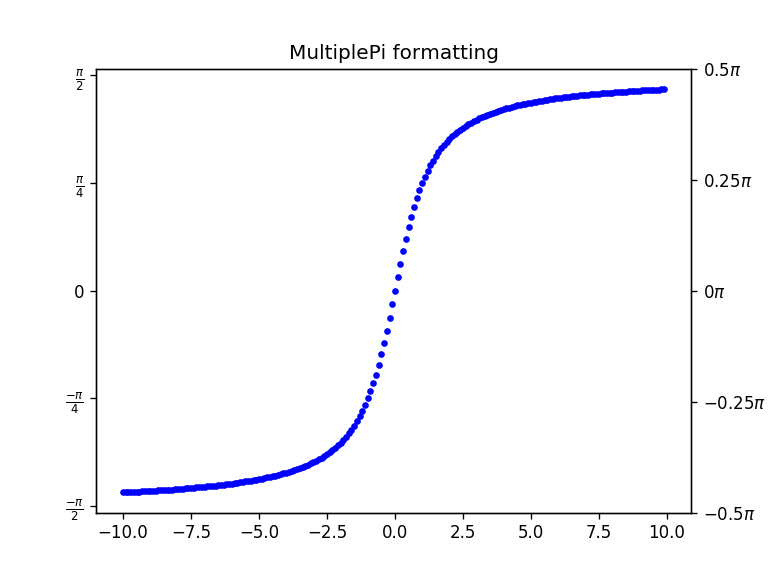
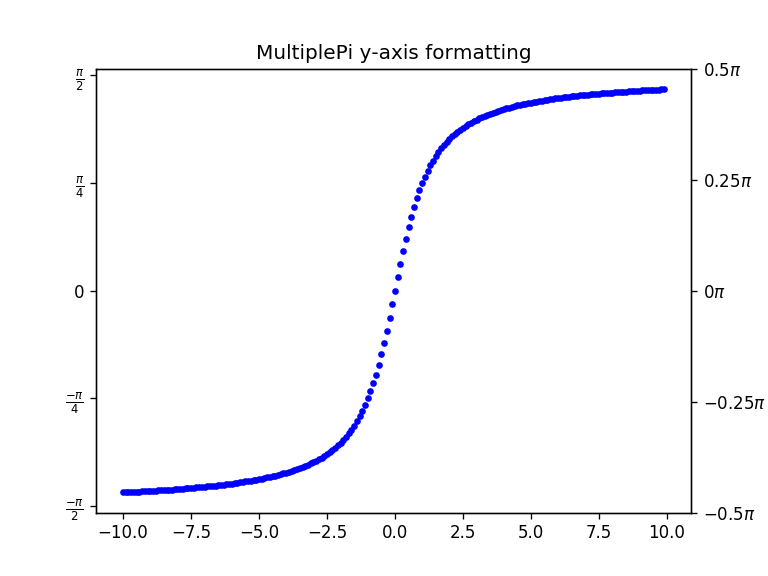
Added errors for improper usage; usage examples

Changed region(s): [[0.3438, 0.0625, 0.6875, 0.125]]

diff --git a/matplot_fmt_pi/multiple.py b/matplot_fmt_pi/multiple.py
@@ -52,6 +52,13 @@ class MultiplePi:
     def __init__(self, denominator: int, base: float = math.pi,
                  symbol: str = r"\pi"):
         """Initialize self."""
+        if denominator == 0 or denominator < 0:
+            raise ValueError(
+                "denominator must not be less than or equal to 0")
+        if denominator % 1 != 0:
+            raise TypeError(
+                "denominator must be non-negative integer (natural number)")
+
         self.denominator = denominator
         self.base = base
         self.symbol = symbol
@@ -91,14 +98,26 @@ class MultiplePi:
             ----------
             theta : `float`
                 The angle in radians to be transformed
+
             _pos : `int`, optional
                 Index of the tick on the axis, by default 1
+
+            Raises
+            ------
+            `ValueError`
+                If method is called with an angle that is not a multiple of `base/denominator`
+                Happens when Axes ticks are not located at multiples of `base/denominator`
 
             Returns
             -------
             `str`
                 The final label to be shown on the axis
             """
+            if theta % (self.base / self.denominator) != 0:
+                raise ValueError(
+                    f"{theta:.3f} is not multiple of {self.base / self.denominator:.3f}. "
+                    "Did you not use the .locator method?")
+
             denom = self.denominator
             # Find raw numerator by finding how many (denom)s are in (theta)
             # eg. How many pi/4 are in 1.5pi? (6)

diff --git a/examples/wrong_graph.py b/examples/wrong_graph.py
@@ -1,0 +1,33 @@
+"""Show a simple example of using MultiplePi."""
+import math
+
+import matplotlib.pyplot as plt
+import numpy as np
+from matplot_fmt_pi import MultiplePi
+from matplotlib.ticker import MultipleLocator
+
+fig = plt.figure(figsize=(4 * np.pi, 2.4))
+axes = fig.add_subplot(111)
+x = np.linspace(-2 * np.pi, 2 * np.pi, 512)
+axes.plot(x, np.sin(x))
+
+axes.grid(True)
+axes.axhline(0, color='black', lw=2)
+axes.axvline(0, color='black', lw=2)
+axes.set_title("MultiplePi Wrong formatting (duplicates)")
+
+# Expect pi/2
+pi_manager = MultiplePi(denominator=2)
+
+# Proper usage:
+# loc = pi_manager.locator()
+
+
+# Improper: give pi/3
+loc = MultipleLocator(math.pi / 3)
+axes.xaxis.set_major_locator(loc)
+axes.xaxis.set_major_formatter(pi_manager.formatter())
+
+plt.tight_layout()
+
+plt.savefig("./wrong_graph.png", dpi=120)

diff --git a/setup.py b/setup.py
@@ -19,6 +19,8 @@ setup(
     license="MIT",
     classifiers=[
         "Programming Language :: Python :: 3",
+        "Programming Language :: Python :: 3.6"
+        "Programming Language :: Python :: 3.7"
         "Programming Language :: Python :: 3.8"
     ],
     keywords=[
@@ -27,7 +29,7 @@ setup(
         "locator",
         "axes ticks",
         "numbers",
-        "radians"
+        "radians",
         "multiples",
         "of",
         "pi",

diff --git a/examples/tau_graph.py b/examples/tau_graph.py
@@ -13,7 +13,7 @@ axes.plot(x, np.exp(-x) * np.cos(60 * x))
 axes.grid(True)
 axes.axhline(0, color='black', lw=2)
 axes.axvline(0, color='black', lw=2)
-axes.set_title("MultiplePi formatting")
+axes.set_title("MultiplePi tau formatting")
 
 major_pi_manager = MultiplePi(60, base=tau, symbol=r"\tau")
 minor_pi_manager = MultiplePi(240, base=tau, symbol=r"\tau")

diff --git a/examples/pi_y_axis.py b/examples/pi_y_axis.py
@@ -10,7 +10,7 @@ y = np.arctan(x)
 fig = plt.figure()
 ax = fig.add_subplot(111)
 
-ax.set_title("MultiplePi formatting")
+ax.set_title("MultiplePi y-axis formatting")
 ax.plot(x, y, 'b.')
 
 y_pi = y / np.pi

diff --git a/README.md b/README.md
@@ -1,30 +1,57 @@
 # Matplotlib Format Pi
 
-[![Upload Python Package](https://github.com/k-donn/format-pi/workflows/Upload%20Python%20Package/badge.svg?branch=master&event=push)](https://github.com/k-donn/format-pi/actions?query=workflow%3A%22Upload+Python+Package%22)
-[![Downloads](https://pepy.tech/badge/matplot-fmt-pi/month)](https://pepy.tech/project/matplot-fmt-pi/month)
-[![PyPI version](https://badge.fury.io/py/matplot-fmt-pi.svg)](https://badge.fury.io/py/matplot-fmt-pi)
+| Version                                                                                                 | Upload Status                                                                                                                                                                                                                    | Downloads                                                                                                    |
+| :------------------------------------------------------------------------------------------------------ | :------------------------------------------------------------------------------------------------------------------------------------------------------------------------------------------------------------------------------- | :----------------------------------------------------------------------------------------------------------- |
+| [![PyPi version](https://badge.fury.io/py/matplot-fmt-pi.svg)](https://badge.fury.io/py/matplot-fmt-pi) | [![Upload Python Package](https://github.com/k-donn/format-pi/workflows/Upload%20Python%20Package/badge.svg?branch=master&event=push)](https://github.com/k-donn/format-pi/actions?query=workflow%3A%22Upload+Python+Package%22) | [![Downloads](https://pepy.tech/badge/matplot-fmt-pi/month)](https://pepy.tech/project/matplot-fmt-pi/month) |
 
-Create locator and formatter instances to make x/y labels and ticks correspond to multiples of pi.
+[![Test Upload Python Package](https://github.com/k-donn/format-pi/workflows/Test%20Upload%20Python%20Package/badge.svg?branch=release)](https://github.com/k-donn/format-pi/actions?query=workflow%3A%22Test+Upload+Python+Package%22)
 
-The `MultiplePi` class provides methods to seamlessly tell matplotlib to create and format tick labels as multiples of pi.
+Format multiples of pi as strings on Matplotlib axes.
 
-In addition, the `MultiplePi` class allows a user to change the denominator of pi.
+The `MultiplePi` class creates a [Locator](https://matplotlib.org/api/ticker_api.html?highlight=locator#matplotlib.ticker.MultipleLocator) to place ticks at desired multiples and a [Formatter](https://matplotlib.org/api/ticker_api.html?highlight=locator#matplotlib.ticker.FuncFormatter) to format all tick labels.
 
-Multiples of π/{2, 3, 4, ...} can be represented if needed.
+The base (π or τ) can be divided by any Natural Number.
+
+Multiples of one-π or one-τ can be placed/formatted too. (2π, 3π, 2τ, 3τ, etc.)
+
+## Installing
+
+```bash
+pip install matplot-fmt-pi
+```
 
 ## Examples
 
 Simply, the instance can be asssigned a denominator of pi then passed to matplotlib.
 
-![Graph Example](./examples/graph.png)
+![Graph Example](https://raw.githubusercontent.com/k-donn/format-pi/master/examples/pi_graph.png)
 
 The parameters can also be modified to adjust the output to something more sophisticated.
 
-![Tau Graph Example](./examples/tau_graph.png)
+![Tau Graph Example](https://raw.githubusercontent.com/k-donn/format-pi/master/examples/tau_graph.png)
+
+![Y-Axis Example](https://raw.githubusercontent.com/k-donn/format-pi/master/examples/pi_y_axis.png)
+
+## Running Examples
+
+[Install](#Installing) then from the repo,
+
+```bash
+cd examples/
+python *.py
+```
+
+Put the repo's directory in the python path to import the `matplot_fmt_pi` folder not the installed package.
+
+```bash
+PYTHONPATH=/home/user/py-pros/format-pi python examples/pi_graph.py
+```
 
 ## Todo
 
-1.  Raise error for improper usage (plugging in 1/4 for a multiple of 1/3)
+-   [x] Raise error for inputting non-multiples
+-   [x] Raise error for instantiation of `MultiplePi` with non-Natural Number denominator
+-   [ ] Update unit-testing
 
 ## Meta
 
